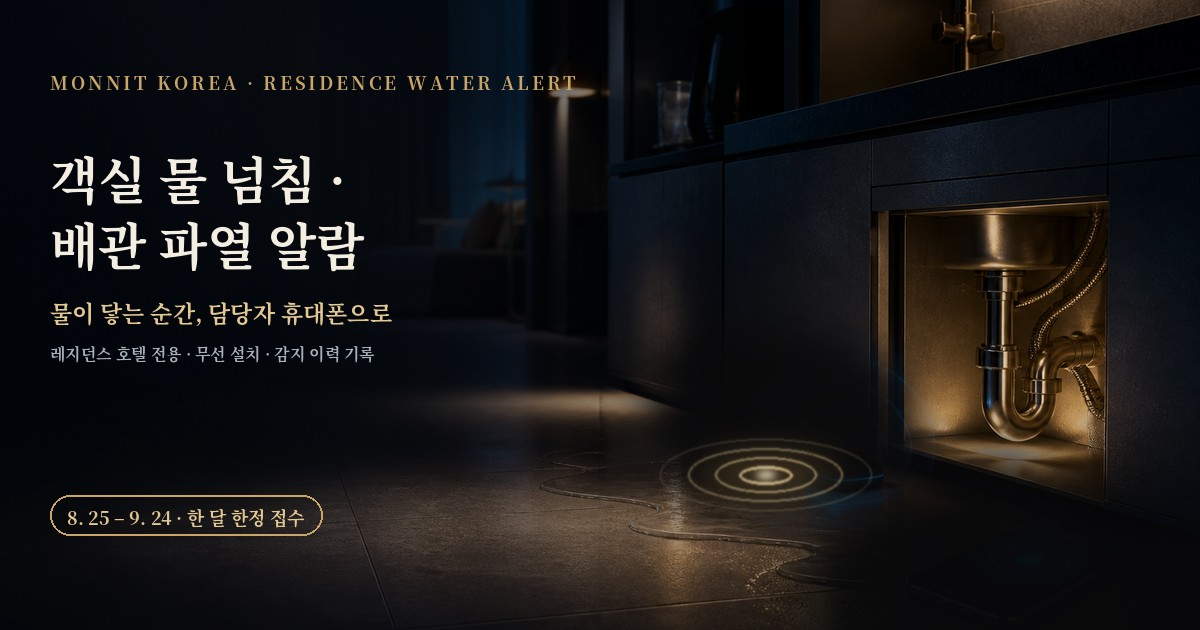
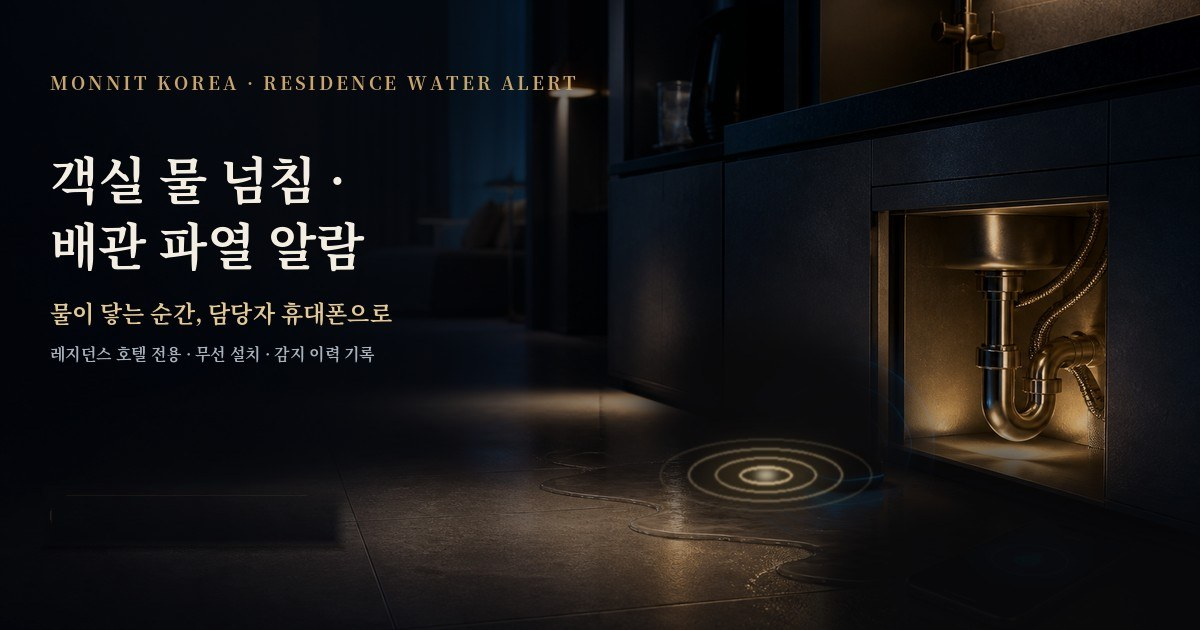
editor 수정

Changed region(s): [[0.0308, 0.7841, 0.2775, 0.8746]]

diff --git a/pages/promotions.html b/pages/promotions.html
@@ -12,11 +12,11 @@
 (function(c,l,a,r,i,t,y){c[a]=c[a]||function(){(c[a].q=c[a].q||[]).push(arguments)};t=l.createElement(r);t.async=1;t.src='https://www.clarity.ms/tag/'+i;y=l.getElementsByTagName(r)[0];y.parentNode.insertBefore(t,y)})(window,document,'clarity','script','x38egtft64');})();
 </script>
 <title>프로모션 안내 — Monnit Korea</title>
-<meta name="description" content="물류센터 화제예방 프로모션 · 무선 불꽃감지기 출시 특가 프로모션! · 회전설비 AI 예지보전 1개월 무료 체험 · 실시간 침수알리미! · 실시간 정전 알리미! · 스마트 교회 알리미 · 산사태 사전예방솔루션 · 레지던스 객실 물 넘침 알람 — 한 달 한정 접수">
+<meta name="description" content="물류센터 화제예방 프로모션 · 무선 불꽃감지기 출시 특가 프로모션! · 회전설비 AI 예지보전 1개월 무료 체험 · 실시간 침수알리미! · 실시간 정전 알리미! · 스마트 교회 알리미 · 산사태 사전예방솔루션 · 레지던스 객실 물 넘침 알람">
 <link rel="canonical" href="https://monnit.co.kr/promotions">
 <meta property="og:type" content="website">
 <meta property="og:title" content="프로모션 안내 — Monnit Korea">
-<meta property="og:description" content="물류센터 화제예방 프로모션 · 무선 불꽃감지기 출시 특가 프로모션! · 회전설비 AI 예지보전 1개월 무료 체험 · 실시간 침수알리미! · 실시간 정전 알리미! · 스마트 교회 알리미 · 산사태 사전예방솔루션 · 레지던스 객실 물 넘침 알람 — 한 달 한정 접수">
+<meta property="og:description" content="물류센터 화제예방 프로모션 · 무선 불꽃감지기 출시 특가 프로모션! · 회전설비 AI 예지보전 1개월 무료 체험 · 실시간 침수알리미! · 실시간 정전 알리미! · 스마트 교회 알리미 · 산사태 사전예방솔루션 · 레지던스 객실 물 넘침 알람">
 <meta property="og:url" content="https://monnit.co.kr/promotions">
 <meta property="og:site_name" content="Monnit Korea">
 <meta name="robots" content="index,follow">
@@ -28,7 +28,7 @@
 <nav class="crumb"><a href="https://monnit.co.kr/">Monnit Korea</a> / 프로모션 안내</nav>
 <a class="back" href="https://monnit.co.kr/">← 메인으로</a>
 <h1>진행 중인 프로모션</h1>
-<p>이미지 배너로 안내되는 프로모션 내용을 텍스트로 제공합니다. 신청·상세: <a href="https://monnit.co.kr/promotions">monnit.co.kr 프로모션</a></p><h2>물류센터 화제예방 프로모션 <span class="muted">[NEW]</span></h2><p>0.1초내에 화재경보를 파악하고 대처하세요!</p><p class="muted">기간: 7/31 일까지</p><p><a href="https://monnit.co.kr/promotions/fire">프로모션 상세·신청 →</a></p><h2>무선 불꽃감지기 출시 특가 프로모션! <span class="muted">[HOT]</span></h2><p>초정밀 무선 불꽃감지기로 즉시 화재징조를 대처하세요!</p><p class="muted">기간: 7/31까지</p><p><a href="https://monnit.co.kr/promotions/flame">프로모션 상세·신청 →</a></p><h2>회전설비 AI 예지보전 1개월 무료 체험 <span class="muted">[NEW]</span></h2><p>무료 검증 후 핵심 설비에 센서를 무상 설치. 한 달 데이터를 보고 도입을 결정하세요.</p><p class="muted">기간: 시즈널 프로모션</p><p><a href="https://monnit.co.kr/promo/consulting">프로모션 상세·신청 →</a></p><h2>실시간 침수알리미! <span class="muted">[HOT]</span></h2><p>누수 및 침수 사전감지, 사전예방으로 피해 최소화!</p><p class="muted">기간: 7/31까지</p><p><a href="https://monnit.co.kr/promotions/water">프로모션 상세·신청 →</a></p><h2>실시간 정전 알리미! <span class="muted">[HOT]</span></h2><p>정전 및 차단기 트립등 실시간 모니터링가능!</p><p class="muted">기간: 7/31까지</p><p><a href="https://monnit.co.kr/promotions/elect">프로모션 상세·신청 →</a></p><h2>스마트 교회 알리미 <span class="muted">[NEW]</span></h2><p>우리 교회 24시간 든든 파수꾼!</p><p class="muted">기간: 7/31까지</p><p><a href="https://monnit.co.kr/promotions/church">프로모션 상세·신청 →</a></p><h2>산사태 사전예방솔루션 <span class="muted">[NEW]</span></h2><p class="muted">기간: 7/31까지</p><p><a href="https://monnit.co.kr/promotions/soil">프로모션 상세·신청 →</a></p><h2>레지던스 객실 물 넘침 알람 — 한 달 한정 접수 <span class="muted">[NEW]</span></h2><p>객실 안 싱크·식기세척기·세탁기, 피트(PS) 속 배관까지 — 물이 닿는 순간 담당자 휴대폰으로 알람. 누수 고민을 보내주시면 감시 우선순위를 무료로 회신드립니다.</p><p class="muted">기간: 2026. 8. 25 – 9. 24</p><p><a href="https://monnit.co.kr/promo/residence">프로모션 상세·신청 →</a></p>
+<p>이미지 배너로 안내되는 프로모션 내용을 텍스트로 제공합니다. 신청·상세: <a href="https://monnit.co.kr/promotions">monnit.co.kr 프로모션</a></p><h2>물류센터 화제예방 프로모션 <span class="muted">[NEW]</span></h2><p>0.1초내에 화재경보를 파악하고 대처하세요!</p><p class="muted">기간: 7/31 일까지</p><p><a href="https://monnit.co.kr/promotions/fire">프로모션 상세·신청 →</a></p><h2>무선 불꽃감지기 출시 특가 프로모션! <span class="muted">[HOT]</span></h2><p>초정밀 무선 불꽃감지기로 즉시 화재징조를 대처하세요!</p><p class="muted">기간: 7/31까지</p><p><a href="https://monnit.co.kr/promotions/flame">프로모션 상세·신청 →</a></p><h2>회전설비 AI 예지보전 1개월 무료 체험 <span class="muted">[NEW]</span></h2><p>무료 검증 후 핵심 설비에 센서를 무상 설치. 한 달 데이터를 보고 도입을 결정하세요.</p><p class="muted">기간: 시즈널 프로모션</p><p><a href="https://monnit.co.kr/promo/consulting">프로모션 상세·신청 →</a></p><h2>실시간 침수알리미! <span class="muted">[HOT]</span></h2><p>누수 및 침수 사전감지, 사전예방으로 피해 최소화!</p><p class="muted">기간: 7/31까지</p><p><a href="https://monnit.co.kr/promotions/water">프로모션 상세·신청 →</a></p><h2>실시간 정전 알리미! <span class="muted">[HOT]</span></h2><p>정전 및 차단기 트립등 실시간 모니터링가능!</p><p class="muted">기간: 7/31까지</p><p><a href="https://monnit.co.kr/promotions/elect">프로모션 상세·신청 →</a></p><h2>스마트 교회 알리미 <span class="muted">[NEW]</span></h2><p>우리 교회 24시간 든든 파수꾼!</p><p class="muted">기간: 7/31까지</p><p><a href="https://monnit.co.kr/promotions/church">프로모션 상세·신청 →</a></p><h2>산사태 사전예방솔루션 <span class="muted">[NEW]</span></h2><p class="muted">기간: 7/31까지</p><p><a href="https://monnit.co.kr/promotions/soil">프로모션 상세·신청 →</a></p><h2>레지던스 객실 물 넘침 알람 <span class="muted">[NEW]</span></h2><p>객실 안 싱크·식기세척기·세탁기, 피트(PS) 속 배관까지 — 물이 닿는 순간 담당자 휴대폰으로 알람. 누수 고민을 보내주시면 감시 우선순위를 무료로 회신드립니다.</p><p class="muted">기간: 2026. 8. 25 – 9. 24</p><p><a href="https://monnit.co.kr/promo/residence">프로모션 상세·신청 →</a></p>
 <hr style="margin:40px 0;border:none;border-top:1px solid #e5e8ef">
 <p class="muted">이 페이지는 검색·AI 크롤러를 위한 정적 콘텐츠 버전입니다. 인터랙티브 버전은 <a href="https://monnit.co.kr/">monnit.co.kr</a> 에서 확인하세요.</p>
 <p class="muted">문의: <a href="mailto:korea@monnit.com">korea@monnit.com</a> · 02-2088-1454</p>

diff --git a/app.js b/app.js
@@ -3132,6 +3132,17 @@ let BLOG = [
   { date:'2025.10.24', title:'겨울철 설비 동파, 스마트하게 막는 법', body:'온도·누수 센서를 결합한 조기 경보로 한파 시즌의 배관 동파와 누수 피해를 예방하는 방법을 소개합니다.', thumb:'◇', url:'https://blog.naver.com/monnitkorea' }
 ];
 let PROMOS = [];
+
+/* 프로모션 카드 이미지 폴백 — 시트(CMS) 이미지가 깨지면 내장 로컬 이미지로,
+   그것도 없으면 깨진 아이콘 대신 자연스럽게 숨깁니다 */
+window.__promoImgFallback = function(img, id){
+  try{
+    var b = (typeof BUILTIN_PROMOS !== 'undefined') && BUILTIN_PROMOS.find(function(x){ return x.id === id; });
+    var alt = b && b.image;
+    if (alt && !img.dataset.fb && img.getAttribute('src') !== alt){ img.dataset.fb = '1'; img.src = alt; return; }
+  }catch(e){}
+  img.style.display = 'none';
+};
 /* ── 사이트 내장 프로모션 ─────────────────────────────────────────────
    Promotions 시트에 행이 없어도 프로모션 목록에 항상 노출됩니다.
    시트에 같은 id(consulting) 행을 추가하면 시트 값이 우선 적용됩니다.
@@ -3164,7 +3175,7 @@ const BUILTIN_PROMOS = [{
   order: 1
 }, {
   id: 'residence',
-  title: '레지던스 객실 물 넘침 알람 — 한 달 한정 접수',
+  title: '레지던스 객실 물 넘침 알람',
   html: '',
   period: '2026. 8. 25 – 9. 24',
   badge: 'NEW',
@@ -3429,7 +3440,7 @@ function renderBlog(){
   const start = (pageState.blog - 1) * per;
   el.innerHTML = list.slice(start, start + per).map(p => {
     const thumb = p.image
-      ? `<div class="blog-thumb has-img"><img src="${esc(p.image)}" alt="${esc(p.title)}" loading="lazy"></div>`
+      ? `<div class="blog-thumb has-img"><img src="${esc(p.image)}" alt="${esc(p.title)}" loading="lazy" onerror="__promoImgFallback(this,'${esc(p.id)}')"></div>`
       : `<div class="blog-thumb">${esc(p.thumb||'◐')}</div>`;
     const insight = (p.insight && p.insight.trim())
       ? `<div class="blog-insight"><div class="blog-insight-inner"><span class="bi-label">INSIGHT · 전체 요약</span><p>${esc(p.insight)}</p><span class="b-link">자세히 보기 →</span></div></div>`
@@ -3480,7 +3491,7 @@ function showPromoGate(p){
     bodyHtml += `<div class="pg-sub">${ended ? '지금 진행 중인 혜택으로 안내해 드릴까요?' : '먼저 진행 중인 혜택을 살펴보셔도 좋습니다.'}</div>`;
     bodyHtml += '<div class="pg-list">' + alts.slice(0,3).map(a => {
       const href = a.link ? esc(a.link) : ('#promotions/' + esc(a.id));
-      const thumb = a.image ? `<img src="${esc(a.image)}" alt="" loading="lazy">` : '<span class="pg-ico">◆</span>';
+      const thumb = a.image ? `<img src="${esc(a.image)}" alt="" loading="lazy" onerror="this.style.display='none'">` : '<span class="pg-ico">◆</span>';
       return `<a class="pg-item" href="${href}" data-gate-go="${esc(a.id)}">
         <span class="pg-thumb">${thumb}</span>
         <span class="pg-txt"><b>${esc(a.title)}</b><small>${esc(a.period || '진행 중')}</small></span>
@@ -3578,7 +3589,7 @@ function renderPromotions(){
           ? `<span class="promo-veil promo-veil-soon" aria-hidden="true"><span class="promo-veil-txt">${esc(p.startLabel ? p.startLabel + ' 오픈' : '오픈 예정')}</span></span>`
           : '');
     const thumb = (p.image
-      ? `<div class="promo-thumb has-img"><img src="${esc(p.image)}" alt="${esc(p.title)}" loading="lazy">${veil}${stamp}</div>`
+      ? `<div class="promo-thumb has-img"><img src="${esc(p.image)}" alt="${esc(p.title)}" loading="lazy" onerror="__promoImgFallback(this,'${esc(p.id)}')">${veil}${stamp}</div>`
       : `<div class="promo-thumb">◆${veil}${stamp}</div>`);
     const badge = p.badge && p.status === 'active' ? `<span class="promo-badge">${esc(p.badge)}</span>` : '';
     let periodTxt = p.period || '';

diff --git a/promo-residence.html b/promo-residence.html
@@ -18,7 +18,7 @@
 <meta property="og:type" content="website">
 <meta property="og:site_name" content="Monnit Korea">
 <meta property="og:title" content="객실 물 넘침·배관 파열 알람 — 레지던스 호텔 전용 | Monnit Korea">
-<meta property="og:description" content="객실 안 싱크·식기세척기·세탁기, 피트(PS) 속 배관까지. 물이 닿는 순간 담당자 휴대폰으로 알람. 8/25–9/24 한 달 한정 신청.">
+<meta property="og:description" content="객실 안 싱크·식기세척기·세탁기, 피트(PS) 속 배관까지. 물이 닿는 순간 담당자 휴대폰으로 알람.">
 <meta property="og:url" content="https://monnit.co.kr/promo/residence">
 <meta property="og:image" content="https://monnit.co.kr/images/promo-residence.jpg">
 <meta property="og:locale" content="ko_KR">
@@ -1235,7 +1235,7 @@
   var now=new Date();
   if(now<=END){
     var d=Math.ceil((END-now)/86400000);
-    if(dl)dl.textContent='8월 25일 – 9월 24일 · 한 달 한정 · D-'+d;
+    if(dl)dl.textContent='8월 25일 – 9월 24일 접수 · D-'+d;
     if(fs)fs.textContent='9월 24일(목)까지 접수분에 한합니다';
   }else{
     if(dl)dl.textContent='이번 프로모션 접수는 마감되었습니다 (9월 24일 종료)';

diff --git a/promo/residence/index.html b/promo/residence/index.html
@@ -18,7 +18,7 @@
 <meta property="og:type" content="website">
 <meta property="og:site_name" content="Monnit Korea">
 <meta property="og:title" content="객실 물 넘침·배관 파열 알람 — 레지던스 호텔 전용 | Monnit Korea">
-<meta property="og:description" content="객실 안 싱크·식기세척기·세탁기, 피트(PS) 속 배관까지. 물이 닿는 순간 담당자 휴대폰으로 알람. 8/25–9/24 한 달 한정 신청.">
+<meta property="og:description" content="객실 안 싱크·식기세척기·세탁기, 피트(PS) 속 배관까지. 물이 닿는 순간 담당자 휴대폰으로 알람.">
 <meta property="og:url" content="https://monnit.co.kr/promo/residence">
 <meta property="og:image" content="https://monnit.co.kr/images/promo-residence.jpg">
 <meta property="og:locale" content="ko_KR">
@@ -1235,7 +1235,7 @@
   var now=new Date();
   if(now<=END){
     var d=Math.ceil((END-now)/86400000);
-    if(dl)dl.textContent='8월 25일 – 9월 24일 · 한 달 한정 · D-'+d;
+    if(dl)dl.textContent='8월 25일 – 9월 24일 접수 · D-'+d;
     if(fs)fs.textContent='9월 24일(목)까지 접수분에 한합니다';
   }else{
     if(dl)dl.textContent='이번 프로모션 접수는 마감되었습니다 (9월 24일 종료)';

diff --git a/editor.html b/editor.html
@@ -412,6 +412,34 @@ const BUILTIN_PROMO_ROWS=[{
   end:'',
   order:'0',
   ended:''
+},{
+  id:'residence',
+  title:'레지던스 객실 물 넘침 알람',
+  badge:'NEW',
+  period:'2026. 8. 25 – 9. 24',
+  desc:'객실 안 싱크·식기세척기·세탁기, 피트(PS) 속 배관까지 — 물이 닿는 순간 담당자 휴대폰으로 알람. 누수 고민을 보내주시면 감시 우선순위를 무료로 회신드립니다.',
+  image:'/images/promo-residence.webp',
+  images:'',
+  html:'',
+  link:'/promo/residence',
+  start:'2026-08-25',
+  end:'2026-09-24',
+  order:'0',
+  ended:''
+},{
+  id:'flame-reservation',
+  title:'사전 예약 프로모션',
+  badge:'NEW',
+  period:'',
+  desc:'',
+  image:'/images/promo-flame-reservation-thumb-v3.png',
+  images:'/images/promo-flame-reservation.png',
+  html:'',
+  link:'',
+  start:'2026-08-25',
+  end:'',
+  order:'1',
+  ended:''
 }];
 
 /* 탭별 '있어야 하는 열' — 시트 헤더에 없으면 편집기에서 자동으로 덧붙입니다.

diff --git a/faqs/index.html b/faqs/index.html
@@ -2067,7 +2067,7 @@ window.addEventListener('popstate', function(){ setTimeout(window.MK_TRACK_PAGEV
 </footer>
 
   
-  <script src="/app.js?v=119"></script>
+  <script src="/app.js?v=121"></script>
   <script src="/js/why-rolling.js?v=2" defer></script>
   <script src="/js/hero-aurora.js?v=4" defer></script>
   <script src="/js/galaxy-hero.js?v=1" defer></script>

diff --git a/index.html b/index.html
@@ -2054,7 +2054,7 @@ window.addEventListener('popstate', function(){ setTimeout(window.MK_TRACK_PAGEV
 </footer>
 
   
-  <script src="/app.js?v=119"></script>
+  <script src="/app.js?v=121"></script>
   <script src="/js/why-rolling.js?v=2" defer></script>
   <script src="/js/hero-aurora.js?v=4" defer></script>
   <script src="/js/galaxy-hero.js?v=1" defer></script>

diff --git a/newsletter/index.html b/newsletter/index.html
@@ -2068,7 +2068,7 @@ window.addEventListener('popstate', function(){ setTimeout(window.MK_TRACK_PAGEV
 </footer>
 
   
-  <script src="/app.js?v=119"></script>
+  <script src="/app.js?v=121"></script>
   <script src="/js/why-rolling.js?v=2" defer></script>
   <script src="/js/hero-aurora.js?v=4" defer></script>
   <script src="/js/galaxy-hero.js?v=1" defer></script>

diff --git a/our-solution/index.html b/our-solution/index.html
@@ -2103,7 +2103,7 @@ window.addEventListener('popstate', function(){ setTimeout(window.MK_TRACK_PAGEV
 </footer>
 
   
-  <script src="/app.js?v=119"></script>
+  <script src="/app.js?v=121"></script>
   <script src="/js/why-rolling.js?v=2" defer></script>
   <script src="/js/hero-aurora.js?v=4" defer></script>
   <script src="/js/galaxy-hero.js?v=1" defer></script>

diff --git a/what-we-do/index.html b/what-we-do/index.html
@@ -2081,7 +2081,7 @@ window.addEventListener('popstate', function(){ setTimeout(window.MK_TRACK_PAGEV
 </footer>
 
   
-  <script src="/app.js?v=119"></script>
+  <script src="/app.js?v=121"></script>
   <script src="/js/why-rolling.js?v=2" defer></script>
   <script src="/js/hero-aurora.js?v=4" defer></script>
   <script src="/js/galaxy-hero.js?v=1" defer></script>

diff --git a/whitepaper/index.html b/whitepaper/index.html
@@ -2078,7 +2078,7 @@ window.addEventListener('popstate', function(){ setTimeout(window.MK_TRACK_PAGEV
 </footer>
 
   
-  <script src="/app.js?v=119"></script>
+  <script src="/app.js?v=121"></script>
   <script src="/js/why-rolling.js?v=2" defer></script>
   <script src="/js/hero-aurora.js?v=4" defer></script>
   <script src="/js/galaxy-hero.js?v=1" defer></script>

diff --git a/PATCH-적용안내.md b/PATCH-적용안내.md
@@ -19,3 +19,21 @@
 ## 검수 결과 (전부 통과)
 주석 0 · NUL 0 · 로고 v2+재시도 · v119 전 페이지 일관 · flame: 목록 비노출 /
 직링크 정상 / sitemap 0건 / noindex 2중 · gtag·쿠키동의 스크립트 원형 유지
+
+## 5. 프로모션 카드 이미지 깨짐 폴백 (2026. 8. 26. 추가)
+- 원인: 프로모션 목록 카드는 구글시트(CMS)의 이미지 주소를 쓰는데,
+  그 주소(외부 이미지 변환 URL)가 간헐적으로 실패 → 깨진 아이콘 노출
+- 조치: 이미지 로드 실패 시 ① 코드에 내장된 로컬 이미지(예: consulting →
+  /images/promo-consulting-banner.jpg)로 자동 교체 ② 그것도 없으면 이미지를
+  숨겨 깨진 아이콘 대신 카드 배경이 자연스럽게 보이게
+- 근본 해결하려면: 프로모션 시트의 image 칸을 사이트 내 경로
+  (/images/promo-….jpg)로 바꿔두면 외부 의존이 사라집니다
+- app.js 변경에 따라 캐시 버전 119 → 120
+
+## 6. 레지던스 프로모션 정리 + 에디터 동기화 (2026. 8. 26. 추가)
+- "한 달 한정 접수" 문구 전부 제거:
+  카드 제목 · 랜딩 og설명 · 랜딩 D-day 줄 · 배너 이미지(webp/jpg)에 박힌 필까지
+  이미지에서 자연스럽게 지움 (바닥 질감 복원)
+- editor.html 내장 목록에 residence · flame-reservation 추가
+  → 이제 에디터 드롭다운에 "사이트 내장(시트에 없음)"으로 표시되어 시트로 옮겨 관리 가능
+- app.js 변경에 따라 캐시 버전 120 → 121
